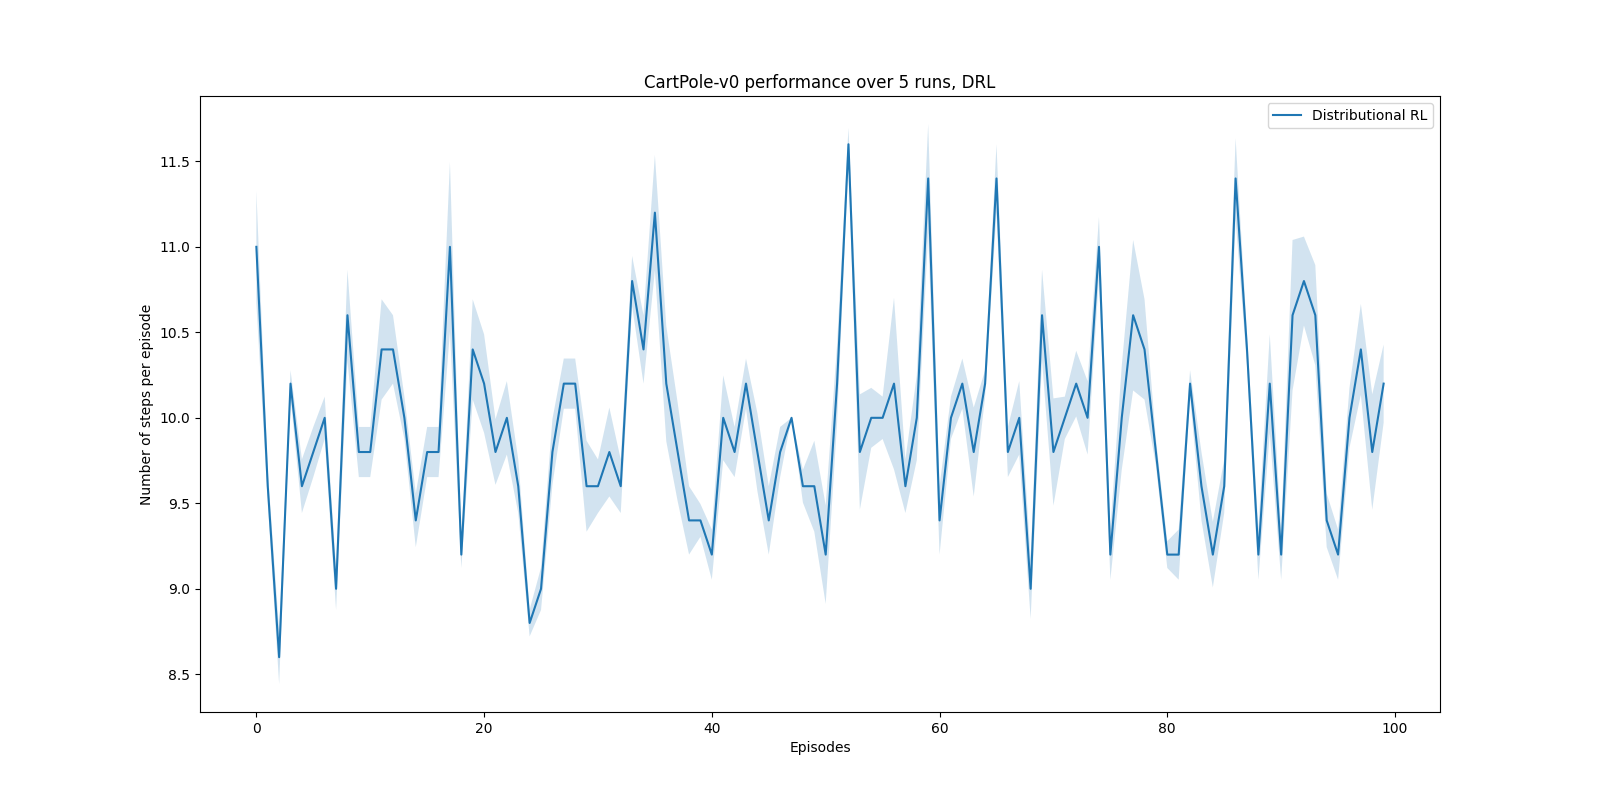
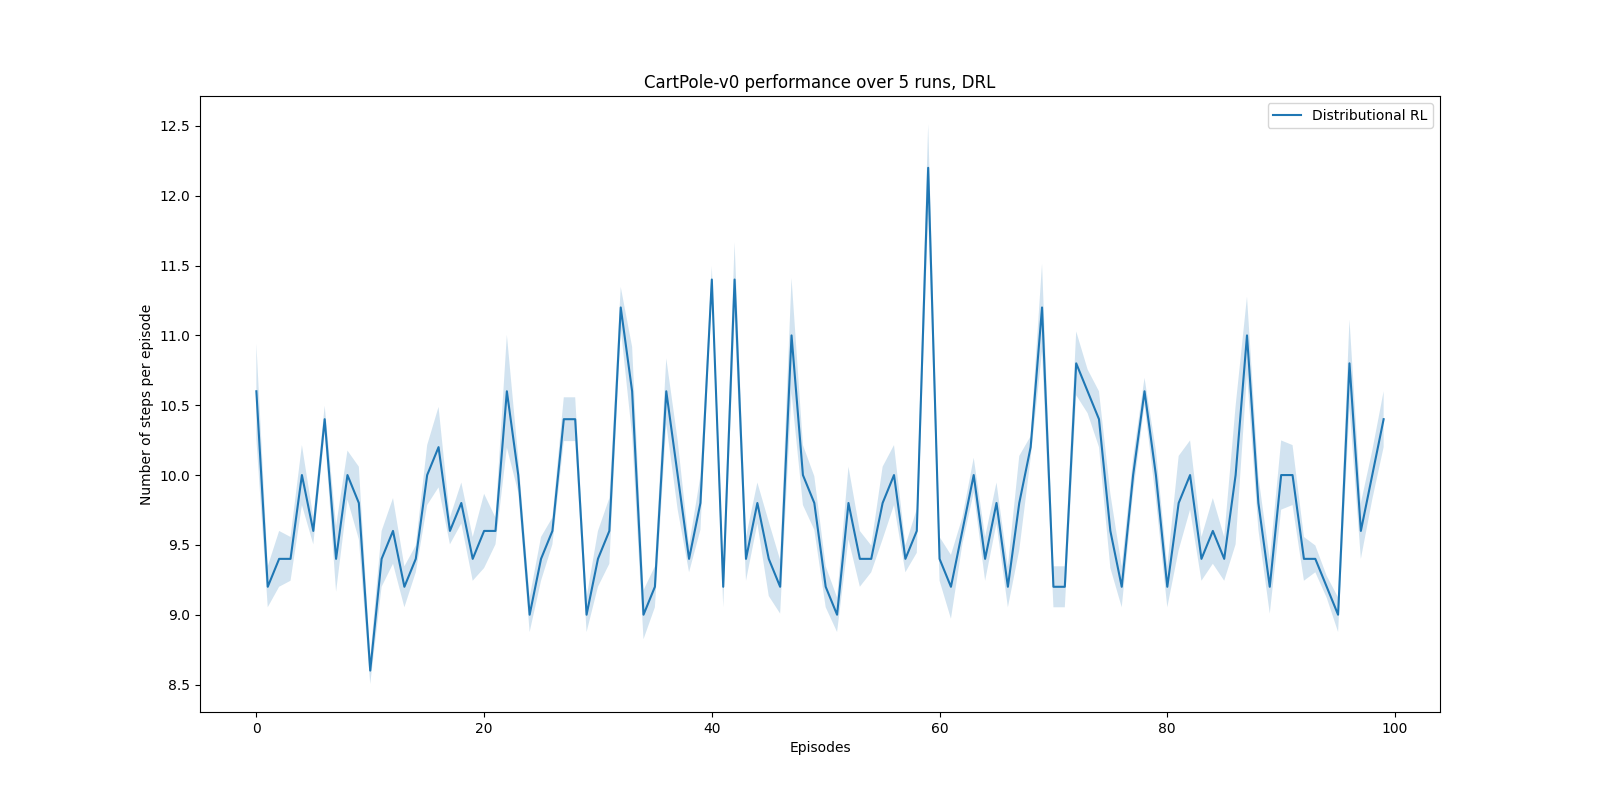
graphs

diff --git a/test.py b/test.py
@@ -55,7 +55,7 @@ class DQN(nn.Module):
         return self.layers(x)
 
     def act(self, state, epsilon):
-        if random.random() > epsilon:
+        if rand.random() > epsilon:
             with torch.no_grad():
                 state = Variable(torch.FloatTensor(state).unsqueeze(0))
             q_value = self.forward(state)
@@ -178,39 +178,52 @@ steps = 10000
 batch_size = 16
 gamma = 0.99
 
+
+def rolling_average(data, *, window_size=10):
+    """Smoothen the 1-d data array using a rollin average.
+
+    Args:
+        data: 1-d numpy.array
+        window_size: size of the smoothing window
+
+    Returns:
+        smooth_data: a 1-d numpy.array with the same size as data
+    """
+    assert data.ndim == 1
+    kernel = np.ones(window_size)
+    smooth_data = np.convolve(data, kernel) / np.convolve(
+        np.ones_like(data), kernel
+    )
+    return smooth_data[: -window_size + 1]
+
+
 if __name__ == '__main__':
     TRIALS = 20
-    EPISODES = 100
+    EPISODES = 150
 
-    # data = np.zeros((TRIALS, EPISODES))
-    # # rewards = np.zeros((TRIALS, EPISODES))
-    # step = np.zeros((TRIALS, EPISODES))
-    # for t in range(TRIALS):
-    #     # TODO change here to switch between env
-    #     shape = env.render().flatten().shape
-    #
-    #     model = DQN(shape[0], env.action_space.n)
-    #     # model = DQN(env.observation_space.shape[0], env.action_space.n)
-    #     optimizer = optim.Adam(model.parameters())
-    #     replay_buffer = ReplayBuffer(10000)
-    #     rewards, _, output = train(model)
-    #     data[t] = output
-    # plt.figure(figsize=(16, 8))
-    #
-    # avg = data.mean(axis=0)
-    # std = data.std(axis=0)
-    # length = len(avg)
-    # y_err = 1.96 * std * np.sqrt(1 / length)
-    # plt.fill_between(np.linspace(0, length - 1, length), avg - y_err, avg + y_err, alpha=0.2)
-    #
-    # plt.plot(avg, label='DQN')
-    # plt.xlabel("Episodes")
-    # plt.ylabel("Number of steps per episode")
-    # plt.legend() #loc=3, fontsize='small')
-    # plt.title(f'{env_id} performance over {TRIALS} runs')
-    # plt.savefig(f'Pics/{env_id} performance over {TRIALS} runs.png')
-    #
-    # plt.show()
+    env_id = "CartPole-v0"
+    env = gym.make(env_id)
+
+    data = np.zeros((TRIALS, EPISODES))
+    for t in range(TRIALS):
+        model = DQN(env.observation_space.shape[0], env.action_space.n)
+        optimizer = optim.Adam(model.parameters())
+        replay_buffer = ReplayBuffer(1000)
+        rewards, _, output = train(model)
+        data[t] = output
+
+    plt.figure(figsize=(16, 8))
+    avg = data.mean(axis=0)
+    std = data.std(axis=0)
+    length = len(avg)
+    y_err = 1.96 * std * np.sqrt(1 / length)
+    plt.fill_between(np.linspace(0, length - 1, length), avg - y_err, avg + y_err, alpha=0.2, c='royal blue')
+
+    plt.plot(avg, label='Original env', c='royal blue')
+    plt.plot(rolling_average(avg), c='dark blue')
+    plt.xlabel("Episodes")
+    plt.ylabel("Number of steps per episode")
+    plt.title(f'DQN on Original and Stochastic Environments')
 
     from typing import TypeVar
     import random
@@ -232,31 +245,23 @@ if __name__ == '__main__':
     env = RandomActionWrapper(gym.make(env_id))
 
     data = np.zeros((TRIALS, EPISODES))
-    step = np.zeros((TRIALS, EPISODES))
     for t in range(TRIALS):
-        # TODO change here to switch between env
-        # shape = env.render().flatten().shape
-
-        # model = DQN(shape[0], env.action_space.n)
         model = DQN(env.observation_space.shape[0], env.action_space.n)
         optimizer = optim.Adam(model.parameters())
         replay_buffer = ReplayBuffer(1000)
         rewards, _, output = train(model)
         data[t] = output
 
-    plt.figure(figsize=(16, 8))
     avg = data.mean(axis=0)
     std = data.std(axis=0)
     length = len(avg)
     y_err = 1.96 * std * np.sqrt(1 / length)
-    plt.fill_between(np.linspace(0, length - 1, length), avg - y_err, avg + y_err, alpha=0.2)
+    plt.fill_between(np.linspace(0, length - 1, length), avg - y_err, avg + y_err, alpha=0.2, c='sea green')
 
-    plt.plot(avg, label='DQN')
-    plt.xlabel("Episodes")
-    plt.ylabel("Number of steps per episode")
+    plt.plot(avg, label='Stochastic env', c='sea green')
+    plt.plot(rolling_average(avg), c='dark green')
     plt.legend()  # loc=3, fontsize='small')
-    plt.title(f'{env_id} performance over {TRIALS} runs (Stochastic Actions)')
-    plt.savefig(f'Pics/{env_id} performance over {TRIALS} runs (Stochastic Actions.png')
+    plt.savefig(f'Pics/DQN on Original and Stochastic Environments {TRIALS} runs.png')
 
     plt.show()
 

diff --git a/distributional_v2.py b/distributional_v2.py
@@ -183,10 +183,48 @@ class Agent:
         return output
 
 
+def rolling_average(data, *, window_size=10):
+    """Smoothen the 1-d data array using a rollin average.
+
+    Args:
+        data: 1-d numpy.array
+        window_size: size of the smoothing window
+
+    Returns:
+        smooth_data: a 1-d numpy.array with the same size as data
+    """
+    assert data.ndim == 1
+    kernel = np.ones(window_size)
+    smooth_data = np.convolve(data, kernel) / np.convolve(
+        np.ones_like(data), kernel
+    )
+    return smooth_data[: -window_size + 1]
+
+
 def main():
-    TRIALS = 5
+    TRIALS = 1
     EPISODES = 100
+
+    env_id = "CartPole-v0"
+    env = gym.make(env_id)
+
     data = np.zeros((TRIALS, EPISODES))
+    for t in range(TRIALS):
+        agent = Agent(env, EPISODES, 'env_id')
+        data[t] = agent.train(EPISODES)
+
+    plt.figure(figsize=(16, 8))
+    avg = data.mean(axis=0)
+    std = data.std(axis=0)
+    length = len(avg)
+    y_err = 1.96 * std * np.sqrt(1 / length)
+    plt.fill_between(np.linspace(0, length - 1, length), avg - y_err, avg + y_err, alpha=0.2)
+
+    plt.plot(avg, label='Original env')
+    # plt.plot(rolling_average(avg))
+    plt.xlabel("Episodes")
+    plt.ylabel("Number of steps per episode")
+    plt.title(f'Distributional RL on Original and Stochastic Environments')
 
     from typing import TypeVar
     import random
@@ -207,6 +245,7 @@ def main():
     env_id = "CartPole-v0"
     env = RandomActionWrapper(gym.make(env_id))
 
+    data = np.zeros((TRIALS, EPISODES))
     for t in range(TRIALS):
         agent = Agent(env, EPISODES, 'env_id')
         data[t] = agent.train(EPISODES)
@@ -217,12 +256,10 @@ def main():
     y_err = 1.96 * std * np.sqrt(1 / length)
     plt.fill_between(np.linspace(0, length - 1, length), avg - y_err, avg + y_err, alpha=0.2)
 
-    plt.plot(avg, label='Distributional RL 2')
-    plt.xlabel("Episodes")
-    plt.ylabel("Number of steps per episode")
+    plt.plot(avg, label='Stochastic env')
+    # plt.plot(rolling_average(avg))
     plt.legend()  # loc=3, fontsize='small')
-    plt.title(f'{env_id} performance over {TRIALS} runs, DRL2')
-    plt.savefig(f'Pics/{env_id} performance over {TRIALS} runs, DRL2.png')
+    plt.savefig(f'Pics/Distributional RL on Original and Stochastic Environments {TRIALS} runs.png')
 
     plt.show()
 

diff --git a/distributional.py b/distributional.py
@@ -39,7 +39,7 @@ class RandomActionWrapper(gym.ActionWrapper):
             return self.env.action_space.sample()
         return action
 
-env_id = "CartPole-v0"
+env_id = "CartPole-v1"
 env = RandomActionWrapper(gym.make(env_id))
 #
 # # Epsilon greedy exploration
@@ -286,7 +286,7 @@ def train(current_model, target_model):
 
 if __name__ == '__main__':
     TRIALS = 5
-    EPISODES = 100
+    EPISODES = 150
 
     data = np.zeros((TRIALS, EPISODES))
     # rewards = np.zeros((TRIALS, EPISODES))
